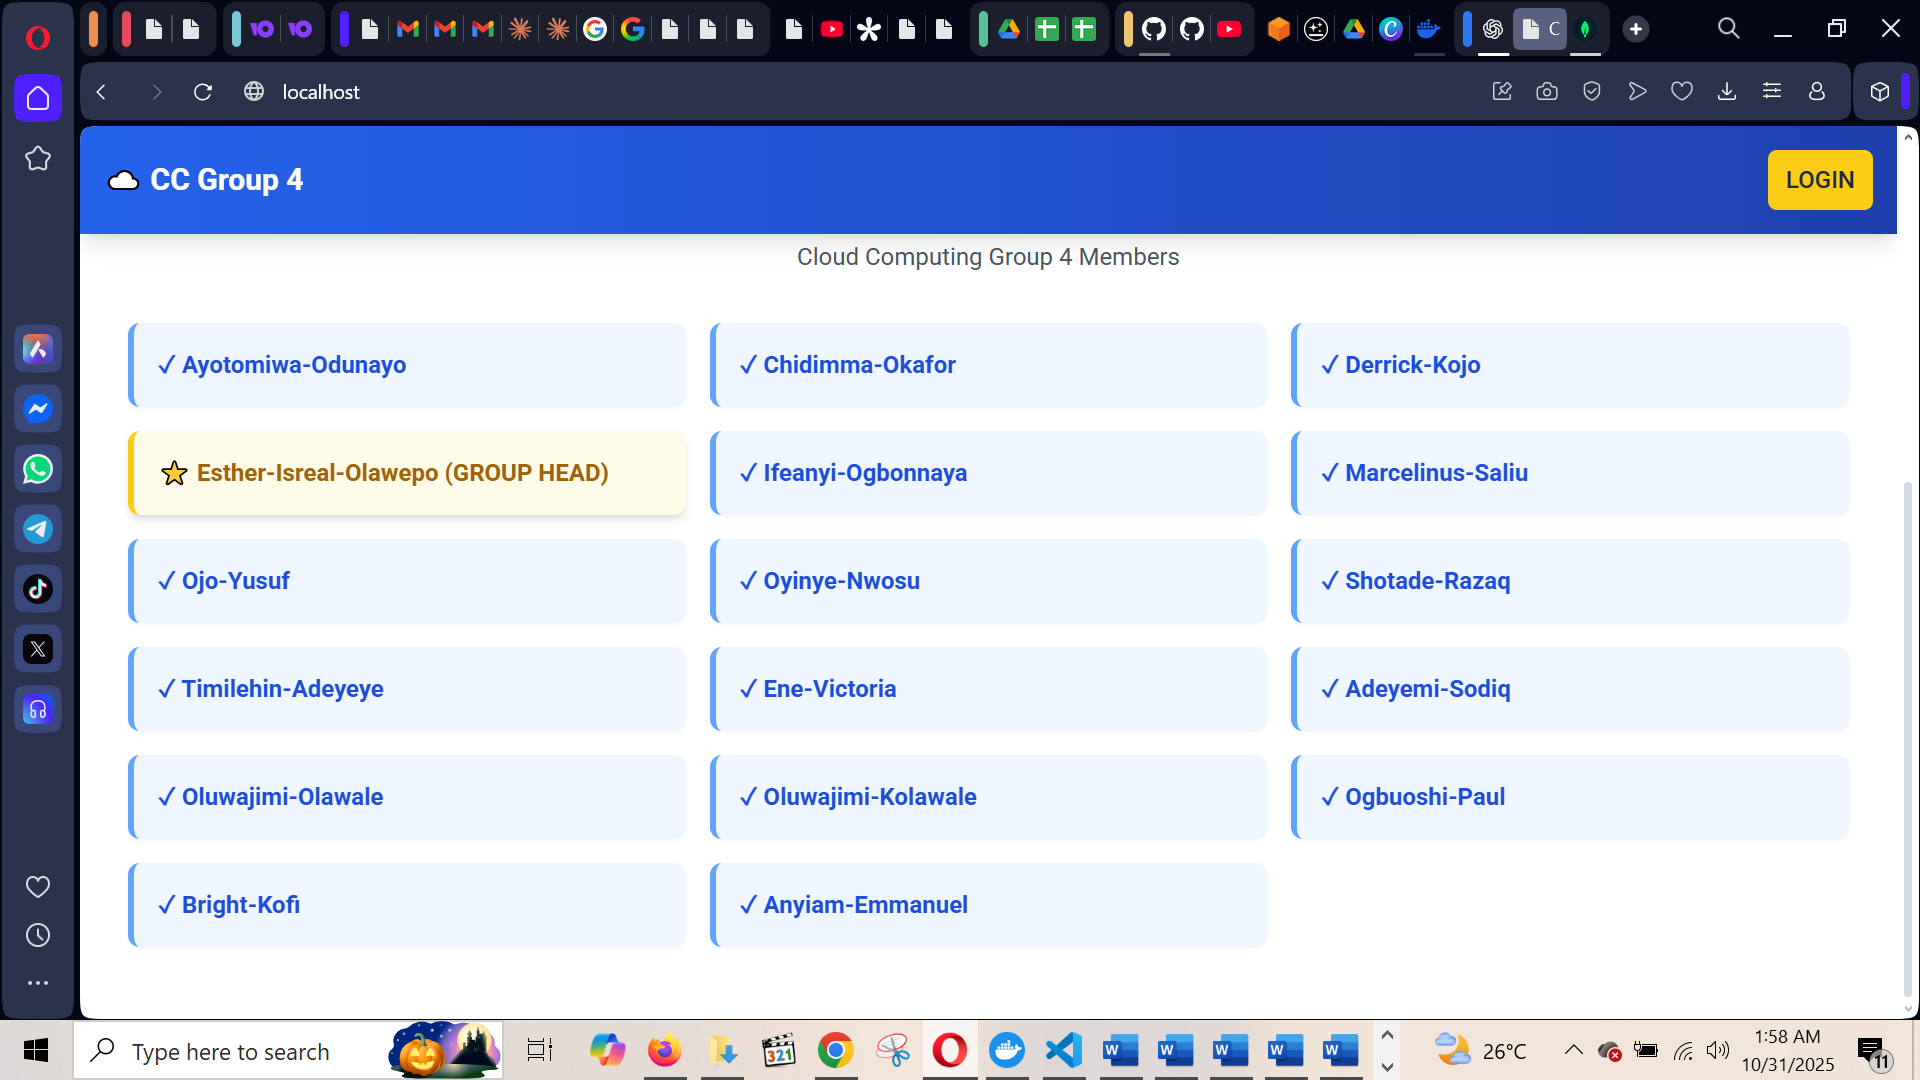
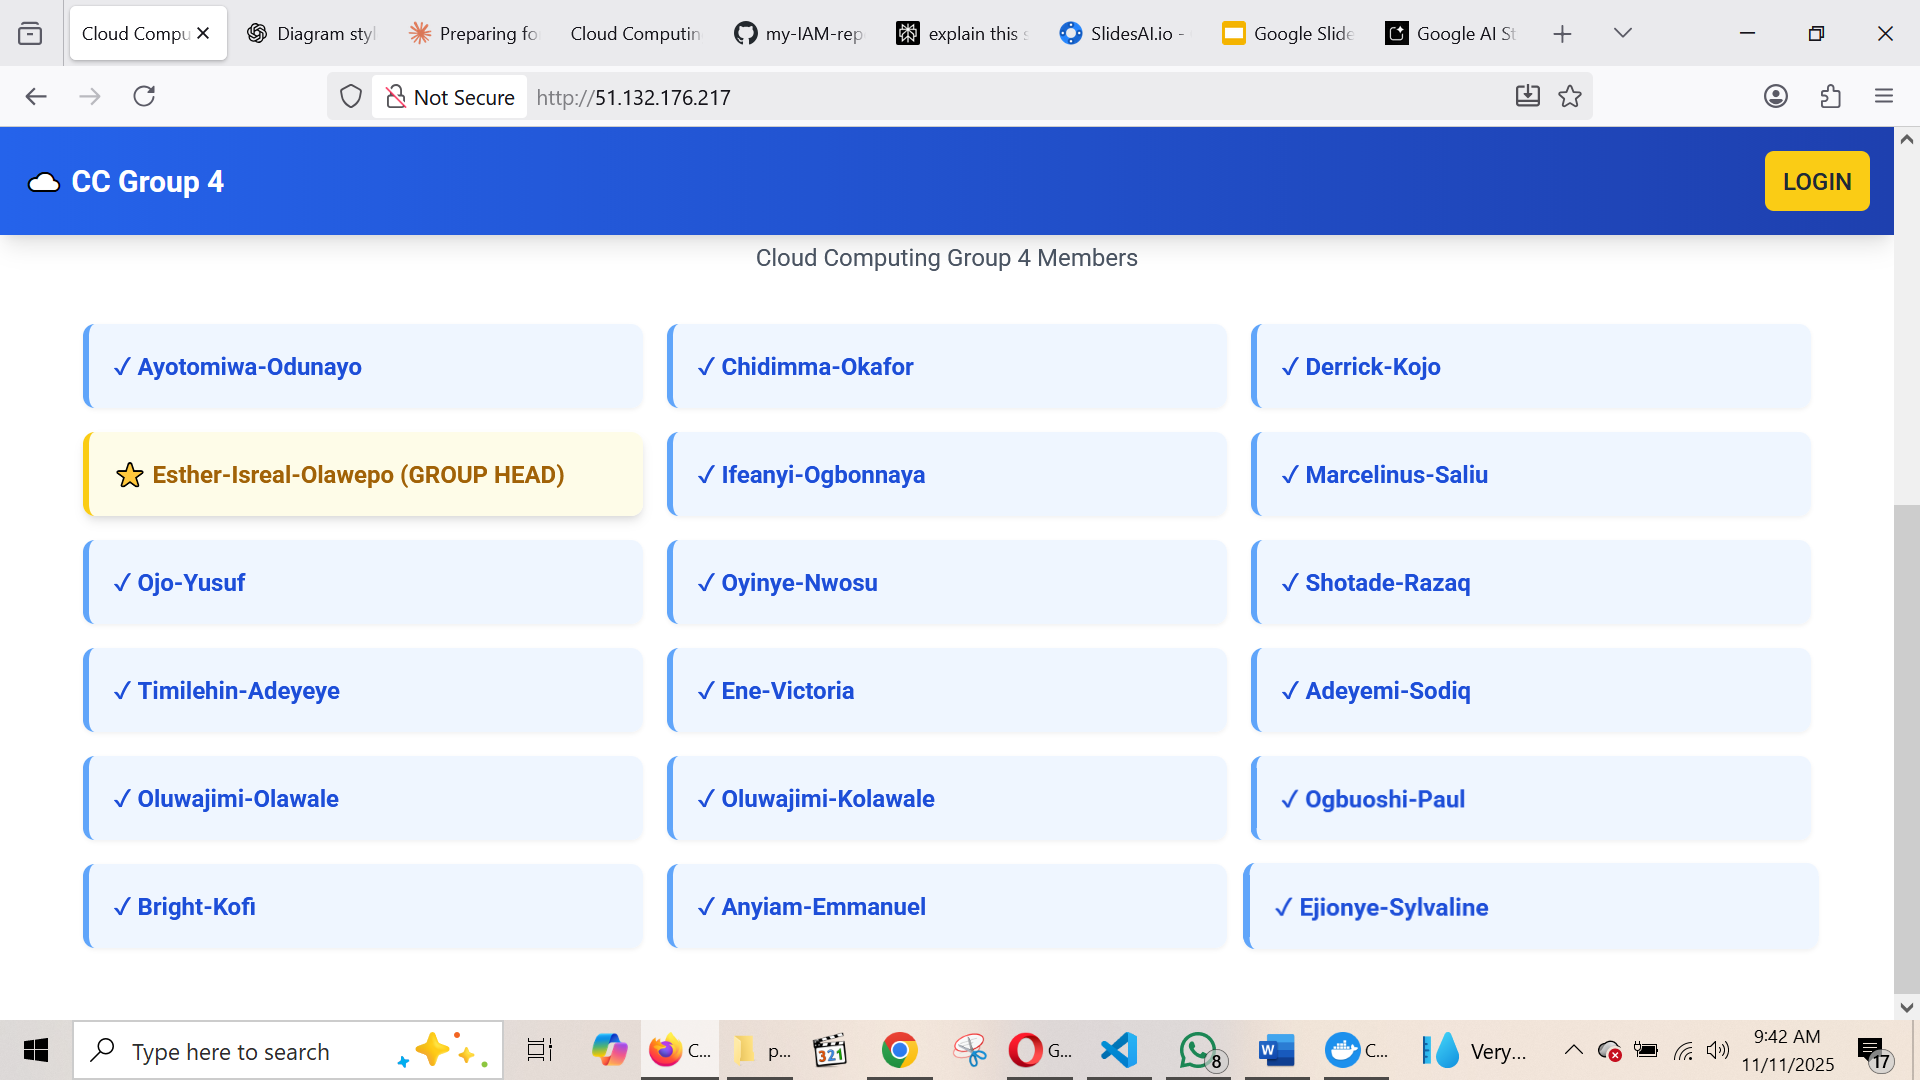
Add Ejionye-Sylvaline to team members

diff --git a/frontend/src/pages/Home.jsx b/frontend/src/pages/Home.jsx
@@ -3,6 +3,7 @@ import { useSelector } from 'react-redux';
 import { Link } from 'react-router-dom';
 import Tasks from '../components/Tasks';
 import MainLayout from '../layouts/MainLayout';
+
 const Home = () => {
   const authState = useSelector(state => state.authReducer);
   const { isLoggedIn } = authState;
@@ -24,12 +25,14 @@ const Home = () => {
     "Oluwajimi-Kolawale",
     "Ogbuoshi-Paul",
     "Bright-Kofi",
-    "Anyiam-Emmanuel"
+    "Anyiam-Emmanuel",
+    "Ejionye-Sylvaline"
   ];
 
   useEffect(() => {
     document.title = authState.isLoggedIn ? `${authState.user.name}'s Tasks - CC Group 4` : "Cloud Computing Group 4 Project";
   }, [authState]);
+
   return (
     <>
       <MainLayout>
@@ -78,4 +81,5 @@ const Home = () => {
     </>
   )
 }
+
 export default Home
